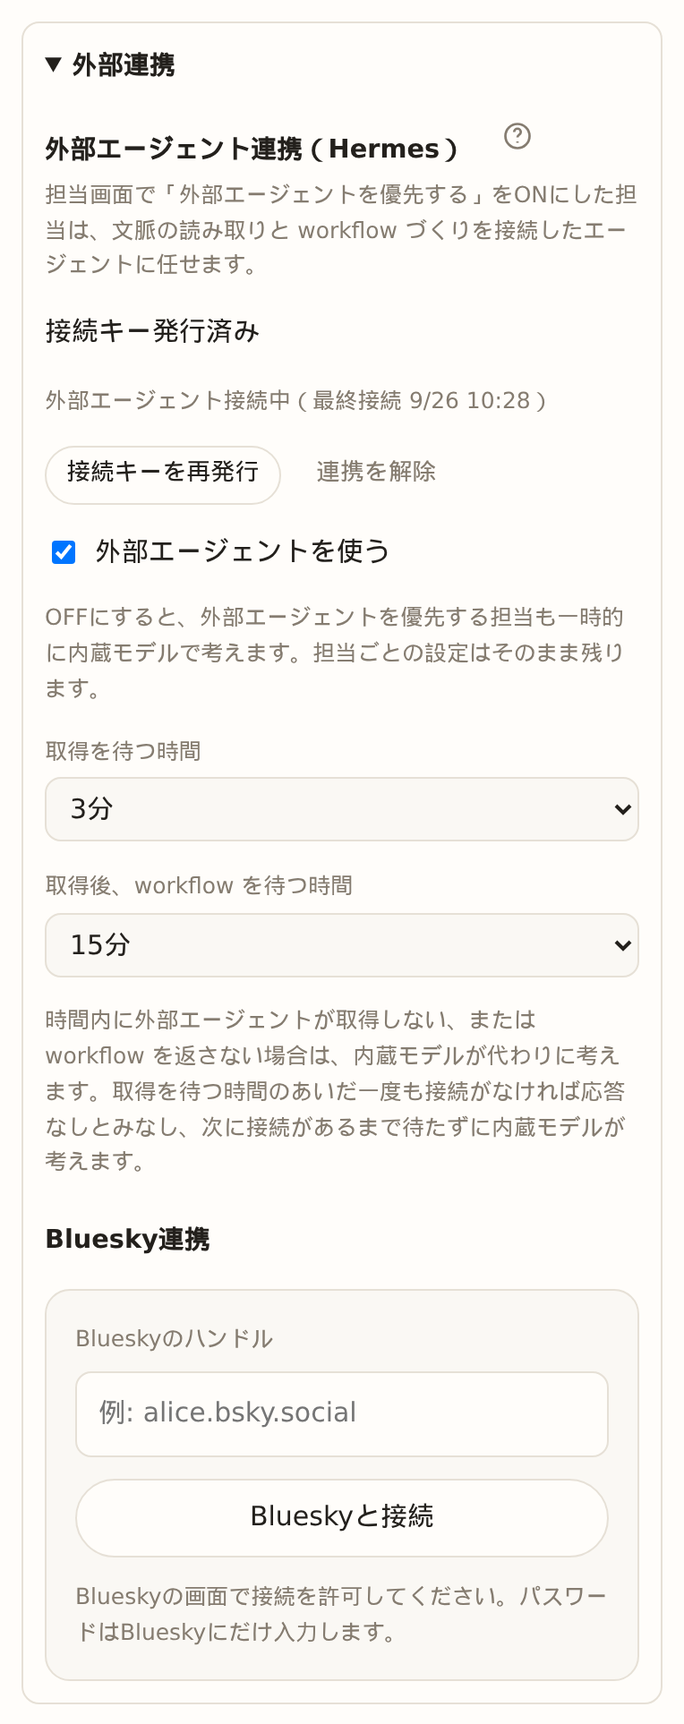
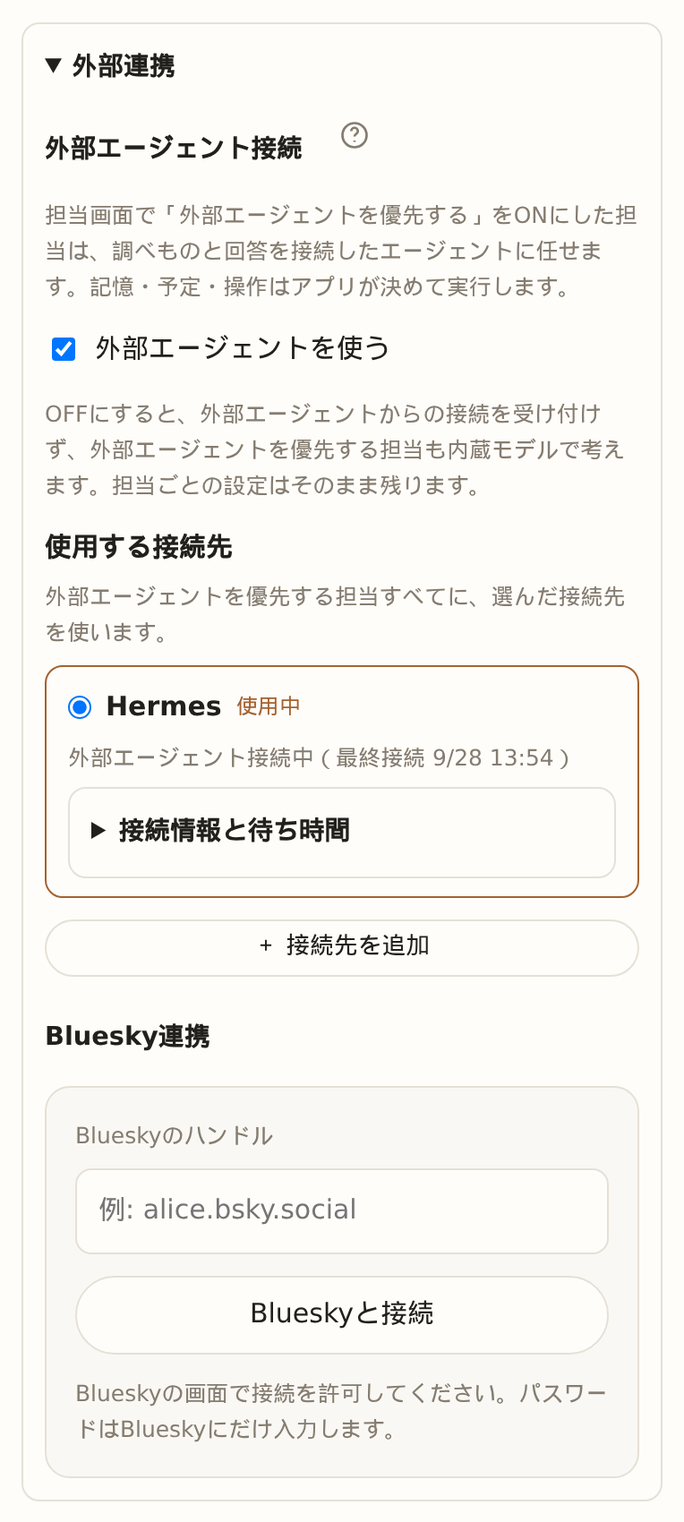
Show how to hand a persona to Obsidian through LLM Connect Hub
The manual's external agent section now covers LLM Connect Hub alongside
Hermes: connecting it, what it answers with, and that the vault file it read
is named as the source. A story shows shiori answering that way, captured in
both languages, and the integration settings captures are retaken for the
current connection list.

diff --git a/frontend/manual/index.html b/frontend/manual/index.html
@@ -79,7 +79,7 @@
             <li><a href="#ja-reply-fix">2. 返し方を直す</a></li>
             <li><a href="#ja-wakes">3. 担当が起きるタイミング</a></li>
             <li><a href="#ja-bluesky">4. Blueskyに公開する</a></li>
-            <li><a href="#ja-hermes">5. 担当の考える役をHermesにする</a></li>
+            <li><a href="#ja-hermes">5. 担当の考える役を外部エージェントに任せる</a></li>
             <li><a href="#ja-settings">6. 設定とデータ</a></li>
             <li><a href="#ja-tools">7. 担当が使う道具</a></li>
             <li><a href="#ja-more">8. もっと詳しく</a></li>
@@ -92,7 +92,7 @@
           <h1>kakeratta の使い方</h1>
           <p class="lede">日々のかけらを、ひとつのタイムラインへ放り込む。人や関心ごとに置いた、自分とは別の記憶を持つ AI（<strong>担当</strong>）が、言うことがあるときだけ反応し、必要なときに思い出させます。</p>
           <div class="tip">
-            <p>このページは毎日使う機能だけをまとめています。振り分けや返し方の調整、Bluesky・Hermes との連携、設定の詳細は <a href="/manual/?guide=advanced" data-lang-link>上級編</a> にあります。</p>
+            <p>このページは毎日使う機能だけをまとめています。振り分けや返し方の調整、Bluesky・外部エージェント（Hermes、Obsidian）との連携、設定の詳細は <a href="/manual/?guide=advanced" data-lang-link>上級編</a> にあります。</p>
           </div>
 
         <section id="ja-start">
@@ -319,7 +319,7 @@
 
         <div class="advanced-guide">
           <h1>kakeratta 上級編</h1>
-          <p class="lede">担当の振り分けや返し方の調整、担当が起きるタイミング、Bluesky・Hermes との連携、設定とデータ、担当が使う道具を説明します。毎日の使い方は <a href="/manual/" data-lang-link>基本の使い方</a> を見てください。</p>
+          <p class="lede">担当の振り分けや返し方の調整、担当が起きるタイミング、Bluesky・外部エージェント（Hermes、Obsidian）との連携、設定とデータ、担当が使う道具を説明します。毎日の使い方は <a href="/manual/" data-lang-link>基本の使い方</a> を見てください。</p>
 
         <section id="ja-routing">
           <h2>1. 振り分けを直す</h2>
@@ -408,7 +408,7 @@
             <li>最近の記録は、前回のチェックインから今までの分を読みます。休んだ日や見送った日があっても、その間の記録を取りこぼしません。</li>
             <li>チェックインでは現在地を使わないので、経路検索はできず、店舗検索は名前での検索だけになります。</li>
           </ul>
-          <p>「外部エージェントを優先する」をONにした担当では、チェックインで何を整え、何を聞くかを Hermes が考えます。時間内に Hermes が応じなければ、内蔵モデルが代わりに考えます。</p>
+          <p>「外部エージェントを優先する」をONにした担当では、チェックインで何を整え、何を聞くかを外部エージェントが考えます。時間内に外部エージェントが応じなければ、内蔵モデルが代わりに考えます。</p>
           <h3 id="ja-tool-schedule">担当が預けた予定（schedule）</h3>
           <p>たとえば plana は、記録から「朝の薬は7時半ごろ」と分かったものにだけ予定を置き、その少しあとに起きます。まだ記録がなければ「そういえば朝の薬」と一言添え、済んでいれば黙ります。時刻の前に知らせるリマインダーではなく、催促もしません。あなたから「毎朝8時に知らせて」と頼む機能でもありません。</p>
           <p><a href="/manual/#ja-people" data-lang-link>人物の担当</a>は、「来週土曜、佐藤さんと飲む」のような会う予定が書かれると、その日の朝に予定を置きます。起きたら前回の出来事や済んでいないこと（貸し借り、約束）を一言添えて知らせます。</p>
@@ -455,11 +455,11 @@
         </section>
 
         <section id="ja-hermes">
-          <p>「＋ 接続先を追加」で名前を付けて複数の接続先を登録し、「使用する接続先」の一覧でアプリ全体の接続先を1つ選べます。キーの再発行と削除は接続先ごとの行で行います。外部エージェントを優先する担当すべてに適用されます。追加した接続先が選択され、他のキーは保存されますがMCPへアクセスできるのは選択中のキーだけです。切り替え時の待機中ターンは内蔵モデルへ戻ります。Hermes以外もMCP Streamable HTTPで接続し、依頼の定期取得・調査・回答提出を実装すれば利用できます。キーは発行時のみ表示します。</p>
-          <h2>5. 担当の考える役をHermesにする</h2>
-          <p>担当ごとに「外部エージェントを優先する」を選べます。ONにした担当は、投稿やチェックインで起きたとき、文脈を読んで調べ、回答を書く部分を自分の Hermes に任せます。メモ・予定・道具の操作は、回答を受け取ったあと kakeratta が段階ごとに決め、回答の約束と食い違わないか確かめて担当として実行し、それから回答を公開します。Hermes をまだ入れていない場合は、先に <a href="https://github.com/takeshy/kakeratta/blob/main/docs/hermes_ja.md" rel="noopener">Hermes連携の手引き</a> を見てください。</p>
-          <figure><img src="/captures/ja/hermes-settings.png" alt="外部連携のHermes設定とマニュアルへのヘルプアイコン" loading="lazy" width="382" height="963" /></figure>
-          <h3>つなぐ</h3>
+          <p>「＋ 接続先を追加」で名前を付けて複数の接続先を登録し、「使用する接続先」の一覧でアプリ全体の接続先を1つ選べます。キーの再発行と削除は接続先ごとの行で行います。外部エージェントを優先する担当すべてに適用されます。追加した接続先が選択され、他のキーは保存されますがMCPへアクセスできるのは選択中のキーだけです。切り替え時の待機中ターンは内蔵モデルへ戻ります。Hermes のほか、Obsidian の LLM Connect Hub にも対応しています。それ以外のエージェントも、MCP Streamable HTTPで接続し、依頼の定期取得・調査・回答提出を実装すれば利用できます。キーは発行時のみ表示します。</p>
+          <h2>5. 担当の考える役を外部エージェントに任せる</h2>
+          <p>担当ごとに「外部エージェントを優先する」を選べます。ONにした担当は、投稿やチェックインで起きたとき、文脈を読んで調べ、回答を書く部分を、自分で動かしている外部エージェントに任せます。使えるのは Hermes Agent と、Obsidian のプラグイン <a href="https://github.com/takeshy/obsidian-llm-connect-hub" rel="noopener">LLM Connect Hub</a> です。メモ・予定・道具の操作は、回答を受け取ったあと kakeratta が段階ごとに決め、回答の約束と食い違わないか確かめて担当として実行し、それから回答を公開します。Hermes をまだ入れていない場合は、先に <a href="https://github.com/takeshy/kakeratta/blob/main/docs/hermes_ja.md" rel="noopener">Hermes連携の手引き</a> を見てください。</p>
+          <figure><img src="/captures/ja/hermes-settings.png" alt="外部連携の外部エージェント接続とマニュアルへのヘルプアイコン" loading="lazy" width="382" height="850" /></figure>
+          <h3>Hermes とつなぐ</h3>
           <ol>
             <li><strong>設定 → 上級オプション → 外部連携 → 外部エージェント接続</strong> で <strong>追加してキーを発行</strong> を押し、表示された設定をコピーします。キーを確認できるのは発行直後だけです。</li>
             <li>Hermes を動かす端末の <code>~/.hermes/config.yaml</code> に追加し、Hermes を再起動します。すでに <code>mcp_servers</code> があれば、その中に <code>kakeratta</code> を足します。</li>
@@ -470,20 +470,32 @@
     url: "画面に表示された接続URL"
     headers:
       Authorization: "Bearer 画面に表示された接続キー"</code></pre>
+          <h3>Obsidian（LLM Connect Hub）とつなぐ</h3>
+          <p>LLM Connect Hub を使うと、担当の回答を Obsidian の <a href="https://github.com/takeshy/obsidian-llm-hub" rel="noopener">LLM Hub</a> が答えます。モデルは LLM Hub で選んだものを使い、Vault のノート・RAG・スキルを調べて回答します。回答の出典には、参照した Vault のファイルが <code>[[ファイル名]]</code> で示されます。</p>
+          <figure><img src="/captures/ja/llm-connect-hub.png" alt="Obsidian の LLM Connect Hub が shiori として答えた返事。外部エージェントの印と、Vault のファイルを示す出典" loading="lazy" width="382" height="991" /></figure>
+          <ol>
+            <li>Obsidian のコミュニティプラグインから <strong>LLM Hub</strong> と <strong>LLM Connect Hub</strong> を入れて有効にします（デスクトップ版のみ）。</li>
+            <li>kakeratta の <strong>設定 → 上級オプション → 外部連携 → 外部エージェント接続</strong> で接続名（例: Obsidian）を付けて <strong>追加してキーを発行</strong> を押します。</li>
+            <li>LLM Connect Hub の設定の <strong>Kakeratta</strong> に、<strong>接続情報と待ち時間</strong> に表示された MCPエンドポイントを入れます。<strong>Add header</strong> で名前 <code>Authorization</code>、値 <code>Bearer 接続キー</code> を追加します。</li>
+            <li>回答に使うモデル、読んでよい Vault のフォルダ、RAG、スキルを決めます。担当ごとに変えることもできます。</li>
+            <li><strong>Check periodically</strong> をONにして <strong>Enabled</strong> をONにし、<strong>Save and reconnect</strong> を押します。</li>
+          </ol>
+          <p>LLM Connect Hub は Obsidian を開いている間、1分ごとに依頼を確認します。依頼がないときにモデルのトークンは使いません。Obsidian を閉じているあいだに届いた依頼は、待ち時間を過ぎると内蔵モデルが答えます。詳しい設定は <a href="https://github.com/takeshy/obsidian-llm-connect-hub/blob/main/README_ja.md" rel="noopener">LLM Connect Hub の説明</a> を見てください。</p>
           <h3>担当を任せる</h3>
           <figure><img src="/captures/ja/persona-planner.png" alt="担当カードで外部エージェントを優先するをONにしたところ" loading="lazy" width="382" height="389" /></figure>
           <ol>
             <li><strong>担当</strong> 画面で、任せたい担当の <strong>外部エージェントを優先する</strong> をONにします。このチェックは接続キーを発行したあとにだけ表示されます。</li>
-            <li>いつもどおり投稿します。その担当に届いた投稿は Hermes が考え、返事は担当の名前で「外部エージェント」の印付きで届きます。</li>
+            <li>いつもどおり投稿します。その担当に届いた投稿は外部エージェントが考え、返事は担当の名前で「外部エージェント」の印付きで届きます。</li>
           </ol>
-          <p>Hermes が3分以内に取りに来ない、または15分以内に回答を返さないときは、内蔵モデルが代わりに答えます。取得を待つ時間のあいだ Hermes から一度も接続がなければ応答なしとみなし、次に接続があるまで待たずに内蔵モデルが答えます。時間は <strong>外部連携</strong> の接続先ごとの <strong>接続情報と待ち時間</strong> で、エージェントごとに変えられます。同じ画面の <strong>外部エージェントを使う</strong> をOFFにすると、外部エージェントからの接続を受け付けず、担当ごとの設定を残したまま内蔵モデルで考えます。試し直しは常に内蔵モデルで行います。</p>
-          <h3>Hermes が読めるもの</h3>
-          <p>Hermes は、あなたの投稿と <strong>すべての担当のメモ</strong> を読めます。自分で投稿したりメモを書いたりはできず、Hermes が渡すのは回答だけです。書き込みはすべて kakeratta が決めて確認したものだけが実行されます。モデル設定や他の利用者のデータには触れません。接続先を<strong>削除</strong>すると接続キーが無効になります。</p>
+          <p>外部エージェントが3分以内に取りに来ない、または15分以内に回答を返さないときは、内蔵モデルが代わりに答えます。取得を待つ時間のあいだ外部エージェントから一度も接続がなければ応答なしとみなし、次に接続があるまで待たずに内蔵モデルが答えます。時間は <strong>外部連携</strong> の接続先ごとの <strong>接続情報と待ち時間</strong> で、エージェントごとに変えられます。同じ画面の <strong>外部エージェントを使う</strong> をOFFにすると、外部エージェントからの接続を受け付けず、担当ごとの設定を残したまま内蔵モデルで考えます。試し直しは常に内蔵モデルで行います。</p>
+          <h3>外部エージェントが読めるもの</h3>
+          <p>外部エージェントは、あなたの投稿と <strong>すべての担当のメモ</strong> を読めます。自分で投稿したりメモを書いたりはできず、外部エージェントが渡すのは回答だけです。書き込みはすべて kakeratta が決めて確認したものだけが実行されます。モデル設定や他の利用者のデータには触れません。接続先を<strong>削除</strong>すると接続キーが無効になります。</p>
           <h3>つながらないとき</h3>
           <ul>
             <li>設定を変えたあと Hermes を再起動したか確認してください。</li>
             <li>Hermes から接続URLに届くか確認してください。</li>
             <li>キーを再発行したら、config.yaml も置き換えてください。</li>
+            <li>LLM Connect Hub では、設定画面の接続状態（例: <code>Kakeratta: connected; 1 ask failed</code>）を見てください。回答が失敗した依頼は内蔵モデルが答えます。</li>
           </ul>
         </section>
 
@@ -504,7 +516,7 @@
                 <tr><td>上級オプション → モデル</td><td>OpenRouter を使う</td></tr>
                 <tr><td>上級オプション → 入力</td><td>入力をマークダウンとして扱う</td></tr>
                 <tr><td>上級オプション → 音声</td><td>音声入力（送信の合図、無音で停止など）、読み上げの声と速さ</td></tr>
-                <tr><td>上級オプション → 外部連携</td><td><a href="#ja-hermes">Hermes</a>、<a href="#ja-bluesky">Bluesky</a></td></tr>
+                <tr><td>上級オプション → 外部連携</td><td><a href="#ja-hermes">外部エージェント</a>、<a href="#ja-bluesky">Bluesky</a></td></tr>
                 <tr><td>上級オプション → バックアップ</td><td>zip に書き出す</td></tr>
                 <tr><td>上級オプション → 利用停止</td><td>すべて削除して退会する</td></tr>
               </tbody>
@@ -512,7 +524,7 @@
           </div>
           <h3>バックアップ</h3>
           <p><strong>zipに書き出す</strong> で、投稿、担当とメモ、担当の並び、画像をひとつの zip にまとめます。準備ができるとダウンロードが始まり、<strong>ダウンロード</strong> のリンクも表示されます。リンクは1時間有効です。個人的な内容を含むので、他人に渡さないでください。</p>
-          <p>API キーや Bluesky・Hermes の接続は入りません。</p>
+          <p>API キーや Bluesky・外部エージェントの接続は入りません。</p>
           <h3>利用停止（退会）</h3>
           <p><strong>すべて削除して利用を停止する</strong> を押し、確認のため「削除」と入力すると、このアカウントの投稿・担当とメモ・画像・設定・接続・バックアップ、ログインのアカウント自体が消えます。元に戻せないので、先にバックアップを取ってください。</p>
           <h3>AI のモデル</h3>
@@ -613,7 +625,7 @@
             <li><a href="#en-reply-fix">2. Fix how a persona replies</a></li>
             <li><a href="#en-wakes">3. When personas wake</a></li>
             <li><a href="#en-bluesky">4. Share to Bluesky</a></li>
-            <li><a href="#en-hermes">5. Let Hermes plan for a persona</a></li>
+            <li><a href="#en-hermes">5. Hand a persona to an external agent</a></li>
             <li><a href="#en-settings">6. Settings and data</a></li>
             <li><a href="#en-tools">7. Tools personas use</a></li>
             <li><a href="#en-more">8. Read more</a></li>
@@ -626,7 +638,7 @@
           <h1>Using kakeratta</h1>
           <p class="lede">Toss fragments of your day into one timeline. AIs you keep for the people and interests in your life, each with a memory separate from yours, called <strong>personas</strong>, react only when they have something to say and bring things back when they matter.</p>
           <div class="tip">
-            <p>This page covers what you use every day. Fixing routing and replies, Bluesky and Hermes, and settings in detail are in the <a href="/manual/?guide=advanced" data-lang-link>advanced guide</a>.</p>
+            <p>This page covers what you use every day. Fixing routing and replies, Bluesky and external agents (Hermes, Obsidian), and settings in detail are in the <a href="/manual/?guide=advanced" data-lang-link>advanced guide</a>.</p>
           </div>
 
         <section id="en-start">
@@ -853,7 +865,7 @@
 
         <div class="advanced-guide">
           <h1>kakeratta advanced guide</h1>
-          <p class="lede">Fixing routing and replies, when personas wake, Bluesky and Hermes, settings and data, and the tools personas use. For everyday use, see the <a href="/manual/" data-lang-link>basics</a>.</p>
+          <p class="lede">Fixing routing and replies, when personas wake, Bluesky and external agents (Hermes, Obsidian), settings and data, and the tools personas use. For everyday use, see the <a href="/manual/" data-lang-link>basics</a>.</p>
 
         <section id="en-routing">
           <h2>1. Fix who gets a post</h2>
@@ -942,7 +954,7 @@
             <li>Recent records are read from the previous check-in onward, so a skipped or missed day leaves nothing unread.</li>
             <li>Check-ins do not use your location, so route search is unavailable and place search works by name only.</li>
           </ul>
-          <p>For a persona that prefers the external agent, Hermes decides what to tidy and what to ask at check-in. If Hermes does not respond in time, the built-in model plans instead.</p>
+          <p>For a persona that prefers the external agent, the external agent decides what to tidy and what to ask at check-in. If it does not respond in time, the built-in model plans instead.</p>
           <h3 id="en-tool-schedule">A persona's own schedule (schedule)</h3>
           <p>plana, for example, sets one only for something its records place at a usual time - “morning medicine around 7:30” - and wakes shortly after. If nothing has been recorded yet it adds “the morning medicine, by the way”; if it has, it stays quiet. This is not an advance reminder and it does not nag. It is also not a way for you to ask “tell me every morning at 8.”</p>
           <p>A <a href="/manual/#en-people" data-lang-link>person's persona</a> sets one for the morning of a meeting you mention, such as “drinks with Sato next Saturday.” On waking it brings up what happened last time and anything still open, like a loan or a promise.</p>
@@ -989,11 +1001,11 @@
         </section>
 
         <section id="en-hermes">
-          <p>Add named connections with + Add connection, then choose one in the Active connection list for the whole app. Replace or delete a key on each connection's row. All personas that prefer an external agent use it. Adding a connection selects it; other keys are kept, but only the selected key can access MCP. Switching returns pending turns to the built-in model. Other agents can use MCP Streamable HTTP if they implement polling, research, and answer submission. Keys are shown only when issued.</p>
-          <h2>5. Let Hermes plan for a persona</h2>
-          <p>Each persona can prefer the external agent. A persona with <strong>Prefer the external agent</strong> on hands the research and the answer of its turn to your own Hermes, whether it woke for a post or a check-in. After receiving the answer, kakeratta decides the notes, schedules and tool actions one phase at a time, checks them against what the answer promises, runs them as the persona, and then publishes the answer. If you have not installed Hermes yet, start with the <a href="https://github.com/takeshy/kakeratta/blob/main/docs/hermes.md" rel="noopener">Hermes integration guide</a>.</p>
-          <figure><img src="/captures/en/hermes-settings.png" alt="Hermes integration settings and the manual help icon" loading="lazy" width="382" height="983" /></figure>
-          <h3>Connect</h3>
+          <p>Add named connections with + Add connection, then choose one in the Active connection list for the whole app. Replace or delete a key on each connection's row. All personas that prefer an external agent use it. Adding a connection selects it; other keys are kept, but only the selected key can access MCP. Switching returns pending turns to the built-in model. Hermes and Obsidian's LLM Connect Hub are supported; other agents can use MCP Streamable HTTP if they implement polling, research, and answer submission. Keys are shown only when issued.</p>
+          <h2>5. Hand a persona to an external agent</h2>
+          <p>Each persona can prefer the external agent. A persona with <strong>Prefer the external agent</strong> on hands the research and the answer of its turn to an external agent you run yourself, whether it woke for a post or a check-in: Hermes Agent, or the Obsidian plugin <a href="https://github.com/takeshy/obsidian-llm-connect-hub" rel="noopener">LLM Connect Hub</a>. After receiving the answer, kakeratta decides the notes, schedules and tool actions one phase at a time, checks them against what the answer promises, runs them as the persona, and then publishes the answer. If you have not installed Hermes yet, start with the <a href="https://github.com/takeshy/kakeratta/blob/main/docs/hermes.md" rel="noopener">Hermes integration guide</a>.</p>
+          <figure><img src="/captures/en/hermes-settings.png" alt="External agent connections under Integrations, with the manual help icon" loading="lazy" width="382" height="889" /></figure>
+          <h3>Connect Hermes</h3>
           <ol>
             <li>Under <strong>Settings → Advanced options → Integrations → External agent connections</strong>, press <strong>Add and create key</strong> and copy the configuration. The key is shown only then.</li>
             <li>Add it to <code>~/.hermes/config.yaml</code> on the machine running Hermes and restart Hermes. If <code>mcp_servers</code> already exists, add <code>kakeratta</code> inside it.</li>
@@ -1004,20 +1016,32 @@
     url: "Connection URL shown in Settings"
     headers:
       Authorization: "Bearer CONNECTION_KEY"</code></pre>
+          <h3>Connect Obsidian (LLM Connect Hub)</h3>
+          <p>With LLM Connect Hub, a persona's answer comes from <a href="https://github.com/takeshy/obsidian-llm-hub" rel="noopener">LLM Hub</a> in your Obsidian. It uses the model you choose in LLM Hub and researches your Vault notes, RAG and skills; the vault files it read are cited as <code>[[file name]]</code>.</p>
+          <figure><img src="/captures/en/llm-connect-hub.png" alt="shiori answering through Obsidian's LLM Connect Hub, marked External agent, citing a file in the vault as its source" loading="lazy" width="382" height="1068" /></figure>
+          <ol>
+            <li>Install and enable <strong>LLM Hub</strong> and <strong>LLM Connect Hub</strong> from Obsidian's community plugins (desktop only).</li>
+            <li>In kakeratta, under <strong>Settings → Advanced options → Integrations → External agent connections</strong>, name the connection (for example, Obsidian) and press <strong>Add and create key</strong>.</li>
+            <li>In LLM Connect Hub's <strong>Kakeratta</strong> settings, enter the MCP endpoint shown under <strong>Connection details and waits</strong>. Use <strong>Add header</strong> to add the name <code>Authorization</code> with the value <code>Bearer CONNECTION_KEY</code>.</li>
+            <li>Choose the answer model, the Vault folders it may read, the RAG index and the skills. Each persona can override them.</li>
+            <li>Turn on <strong>Check periodically</strong> and <strong>Enabled</strong>, then press <strong>Save and reconnect</strong>.</li>
+          </ol>
+          <p>LLM Connect Hub checks for asks once a minute while Obsidian is open, and uses no model tokens when there are none. An ask that arrives while Obsidian is closed is answered by the built-in model once its wait runs out. For the full settings, see the <a href="https://github.com/takeshy/obsidian-llm-connect-hub#readme" rel="noopener">LLM Connect Hub README</a>.</p>
           <h3>Hand a persona over</h3>
           <figure><img src="/captures/en/persona-planner.png" alt="A persona card preferring the external agent" loading="lazy" width="382" height="433" /></figure>
           <ol>
             <li>In <strong>Personas</strong>, turn on <strong>Prefer the external agent</strong> for the persona. The checkbox appears only after a connection key has been issued.</li>
-            <li>Post as usual. Hermes plans what that persona does with it; the reply arrives under the persona's name, marked <strong>External agent</strong>.</li>
+            <li>Post as usual. The external agent plans what that persona does with it; the reply arrives under the persona's name, marked <strong>External agent</strong>.</li>
           </ol>
-          <p>If Hermes does not pick it up within 3 minutes, or does not return an answer within 15 minutes, the built-in model answers instead. If Hermes has not connected at all for the claim wait, it is taken to be away and the built-in model answers without waiting until it connects again. Change the waits per agent under each connection's <strong>Connection details and waits</strong> in <strong>Integrations</strong>; turning off <strong>Use the external agent</strong> there refuses its connections and plans with the built-in model while keeping each persona's choice. <strong>Try again</strong> always uses the built-in model.</p>
-          <h3>What Hermes can read</h3>
-          <p>Hermes can read your posts and <strong>the notes of every persona</strong>. It cannot post or write notes itself: it hands in only the answer, and every write is decided and checked by kakeratta. It cannot reach model settings or other users. Deleting the connection invalidates the key.</p>
+          <p>If the external agent does not pick it up within 3 minutes, or does not return an answer within 15 minutes, the built-in model answers instead. If it has not connected at all for the claim wait, it is taken to be away and the built-in model answers without waiting until it connects again. Change the waits per agent under each connection's <strong>Connection details and waits</strong> in <strong>Integrations</strong>; turning off <strong>Use the external agent</strong> there refuses its connections and plans with the built-in model while keeping each persona's choice. <strong>Try again</strong> always uses the built-in model.</p>
+          <h3>What an external agent can read</h3>
+          <p>An external agent can read your posts and <strong>the notes of every persona</strong>. It cannot post or write notes itself: it hands in only the answer, and every write is decided and checked by kakeratta. It cannot reach model settings or other users. Deleting the connection invalidates the key.</p>
           <h3>If it cannot connect</h3>
           <ul>
             <li>Restart Hermes after changing its configuration.</li>
             <li>Check that Hermes can reach the connection URL.</li>
             <li>If you replaced the key, replace it in config.yaml too.</li>
+            <li>In LLM Connect Hub, look at the connection status in its settings (for example, <code>Kakeratta: connected; 1 ask failed</code>). An ask it failed to answer is answered by the built-in model.</li>
           </ul>
         </section>
 
@@ -1038,7 +1062,7 @@
                 <tr><td>Advanced options → Models</td><td>Use OpenRouter</td></tr>
                 <tr><td>Advanced options → Input</td><td>Treat what I write as Markdown</td></tr>
                 <tr><td>Advanced options → Voice</td><td>Voice input (send phrase, silence stop, …), read-aloud voice and speed</td></tr>
-                <tr><td>Advanced options → Integrations</td><td><a href="#en-hermes">Hermes</a>, <a href="#en-bluesky">Bluesky</a></td></tr>
+                <tr><td>Advanced options → Integrations</td><td><a href="#en-hermes">External agents</a>, <a href="#en-bluesky">Bluesky</a></td></tr>
                 <tr><td>Advanced options → Backup</td><td>Export as zip</td></tr>
                 <tr><td>Advanced options → Close account</td><td>Delete everything and leave</td></tr>
               </tbody>
@@ -1046,7 +1070,7 @@
           </div>
           <h3>Backup</h3>
           <p><strong>Export as zip</strong> puts your posts, personas and their notes, persona order, and images into one zip. The download starts when it is ready, and a <strong>Download</strong> link also appears. The link is valid for an hour. The zip holds personal content, so keep it to yourself.</p>
-          <p>API keys and the Bluesky and Hermes connections are not included.</p>
+          <p>API keys and the Bluesky and external agent connections are not included.</p>
           <h3>Close account</h3>
           <p>Press <strong>Delete everything and close the account</strong> and type “delete” to confirm. This removes the account's posts, personas and notes, images, settings, connections, backups, and the login account itself. It cannot be undone, so export a backup first.</p>
           <h3>AI models</h3>

diff --git a/frontend/stories/fixtures.js b/frontend/stories/fixtures.js
@@ -65,6 +65,8 @@ const WORDS = {
     newTone: "短く一言。おすすめは頼まれたときだけ。",
     newInstructions: "食べた店と味の感想を覚える。新しい感想が来たら、前に食べた店との違いを一言で返す。店は頼まれたときだけ勧める。",
     trialReply: "前の担々麺より、ごまが強くて辛さが後ろに下がった感じですね。",
+    agentAsk: "LLMの本であるIntroduction to Agentsの要約を教えて",
+    agentSummary: "『Introduction to Agents and Agent architectures』（2025年11月）の要約です。\nこの本は、AIを「質問に答えたり文章を生成したりするモデル」から、**目標に向かって計画し、ツールを使い、結果を観察しながら仕事を進めるエージェント**へと捉え直します。\n\n- **基本ループ**：目標を受け取る → 状況を調べる → 計画する → ツールで実行する → 結果を観察・評価する → 必要なら計画を修正する\n- **基本構成**：推論を担う **Model**、外界に働きかける **Tools**、処理の流れを制御する **Orchestration layer**、実行環境などの **Runtime services**\n- **重要な考え方**：エージェントの性能は、モデルそのものだけでなく、毎回どの情報を文脈として選び、組み合わせるかという **context engineering** に大きく左右される\n- **実運用上の課題**：評価、メモリ、権限管理、プロンプトインジェクション対策、人間による監督が不可欠\n\n出典：[[resource/Introduction to Agents.pdf]]",
   },
   en: {
     noodles: "That dan dan noodle place from the other day - too much sesame, I think",
@@ -92,6 +94,8 @@ const WORDS = {
     newTone: "One short line. Recommendations only when asked.",
     newInstructions: "Remember the places eaten at and what they tasted like. When a new impression comes in, say in one line how it differs from a place before. Recommend only when asked.",
     trialReply: "Heavier on sesame than the last dan dan noodles, with the heat sitting further back.",
+    agentAsk: "Summarise the LLM book Introduction to Agents for me",
+    agentSummary: "A summary of \"Introduction to Agents and Agent architectures\" (November 2025).\nThe book recasts AI from \"a model that answers questions and writes text\" into **an agent that plans toward a goal, uses tools, and works while watching the results**.\n\n- **The core loop**: take a goal → look at the situation → plan → act with tools → observe and judge the result → revise the plan if needed\n- **The parts**: a **Model** that reasons, **Tools** that act on the world, an **Orchestration layer** that runs the flow, and **Runtime services** such as the execution environment\n- **The key idea**: an agent's quality depends not only on the model but on **context engineering** - which information is chosen and combined as context each time\n- **In production**: evaluation, memory, permissions, defence against prompt injection, and human oversight are essential\n\nSource: [[resource/Introduction to Agents.pdf]]",
   },
 };
 
@@ -253,7 +257,13 @@ export function timeline() {
   const unreadable = [
     post("p7", minutes(2), { media: { blobId: "b3", mime: "image/png", readAt: minutes(1), error: w.noVision } }),
   ];
-  return { quiet, answered, hero, many, reading, unreadable };
+  // shiori handed to LLM Connect Hub: the answer comes from Obsidian, and the
+  // file it read in the vault is named as the source.
+  const vault = [
+    post("p8", minutes(7), { text: w.agentAsk }),
+    said("a1", "p8", "book", minutes(6), w.agentSummary, { model: "agent", notes: ["books/introduction-to-agents.md"] }),
+  ];
+  return { quiet, answered, hero, many, reading, unreadable, vault };
 }
 
 // ---- what the panels read ---------------------------------------------------

diff --git a/frontend/stories/Timeline.stories.js b/frontend/stories/Timeline.stories.js
@@ -24,6 +24,16 @@ export const Opened = {
     return panel(view.element);
   },
 };
+// A persona handed to Obsidian's LLM Connect Hub, answering from a file in the
+// vault and saying which.
+export const ExternalAgentVault = {
+  name: "外部エージェント（Obsidian）が答えた",
+  render: () => {
+    const view = feed(timeline().vault, personas);
+    view.element.querySelector(".thread-toggle")?.click();
+    return panel(view.element);
+  },
+};
 export const Settled ={ name: "溜まってきた", render: () => show(timeline().many) };
 // The router's call about the noodle post: tabe was called, and the reasons
 // the other three were not - each with a way to say the router was wrong.

diff --git a/README.md b/README.md
@@ -578,6 +578,17 @@ Detailed credential scope, the context an ask carries, waits, and fall-through
 are in [Hermes Agent setup](docs/hermes.md)
 ([日本語](docs/hermes_ja.md)).
 
+The same MCP connection also serves
+[LLM Connect Hub](https://github.com/takeshy/obsidian-llm-connect-hub), an
+Obsidian plugin. A persona handed to it is answered by
+[LLM Hub](https://github.com/takeshy/obsidian-llm-hub) in your Obsidian, with
+the model you choose there and your Vault notes, RAG and skills. Enter the MCP
+endpoint and `Authorization: Bearer <key>` in its **Kakeratta** settings; it
+checks for asks once a minute while Obsidian is open. See the
+[manual](https://kakeratta.net/manual/?lang=en#en-hermes).
+
+![shiori answering through LLM Connect Hub, citing a file in the vault](docs/captures/en/llm-connect-hub.png)
+
 ### Running the server yourself
 
 The browser app and Go API can be run locally or deployed separately.
@@ -597,6 +608,7 @@ check-ins, schedules, and operator-provided tools are documented in
 | [Usage and configuration](docs/usage.md)                                                                 | Android and iOS sharing, location, speech, model settings, and stored data                                        |
 | [What was hard about the AI](docs/ai-lessons.md)                                                         | What went wrong with Nemotron personas in live runs and production, and how each was fixed                        |
 | [Hermes Agent](docs/hermes.md) ([日本語](docs/hermes_ja.md))                                                | kakeratta MCP connection, credentials, claiming asks, submitting answers, and fall-through                      |
+| [LLM Connect Hub](https://github.com/takeshy/obsidian-llm-connect-hub)                                   | Obsidian plugin that answers kakeratta personas with LLM Hub models, Vault notes, RAG, and skills                 |
 | [NVIDIA NemoClaw with Hermes](https://docs.nvidia.com/nemoclaw/user-guide/hermes/get-started/quickstart) | Official setup for running Hermes in a NemoClaw/OpenShell sandbox                                                 |
 | [Google Cloud deployment](infra/README.md)                                                               | Terraform deployment: Firebase Hosting for the page and Cloud Run for the API                                     |
 

diff --git a/docs/usage_ja.md b/docs/usage_ja.md
@@ -258,7 +258,7 @@ KakerattaはNebius Token Factoryを通じてNVIDIA Nemotronモデルを使用し
 お礼や普通の追加質問、別の話題は Super のままです。
 調べるための `read` は通常のターンで最大10回、Ultra のターンで最大20回使えます。
 
-外部エージェントの接続キーを発行すると、担当ごとに「外部エージェントを優先する」をONにして、調べものと回答を外部エージェント（Hermes など）に任せられます（接続するまで、このチェックは表示されません）。その担当は、文脈を読んで調べ、回答を書く部分だけを
+外部エージェントの接続キーを発行すると、担当ごとに「外部エージェントを優先する」をONにして、調べものと回答を外部エージェント（Hermes や Obsidian の [LLM Connect Hub](https://github.com/takeshy/obsidian-llm-connect-hub) など）に任せられます（接続するまで、このチェックは表示されません）。その担当は、文脈を読んで調べ、回答を書く部分だけを
 MCP でつないだ外部エージェントに任せます。予定・操作・メモは担当のモデルで kakeratta が決めて回答とあわせた workflow を組み立て、予定か操作があれば上の表のとおり確認してから実行し、回答を公開します。
 3分以内に取得されない、または取得後15分以内に回答が受理されないと、内蔵モデル（Super）が代わりに答えます。
 待ち時間は上級オプションの「外部連携」で変えられ、「外部エージェントを使う」をOFFにすると一時的に全員が内蔵モデルで考えます。詳しくは [Hermes Agent の設定](hermes_ja.md) を見てください。

diff --git a/docs/usage.md b/docs/usage.md
@@ -370,6 +370,7 @@ The persona can use `read` up to 10 times in an ordinary turn and 20 times in an
 
 Once an external agent's connection key has been issued, each persona can turn on
 **Prefer the external agent** to hand its research and answer to an agent such as Hermes
+or Obsidian's [LLM Connect Hub](https://github.com/takeshy/obsidian-llm-connect-hub)
 (the checkbox stays hidden until then).
 Such a persona hands only the part that reads the context, looks things up and
 writes the answer to the agent connected over MCP. kakeratta then decides the
@@ -378,7 +379,8 @@ with the answer into a workflow, reviews it as in the table above when it holds 
 schedule or an action, runs it, and publishes the answer. If the
 agent does not claim the turn within 3 minutes, or no answer is accepted within
 15 minutes of the claim, the built-in model (Super) answers instead. The waits are under Advanced options →
-Integrations, where **Use the external agent** can pause it for a while. See [Hermes Agent setup](hermes.md).
+Integrations, where **Use the external agent** can pause it for a while. See [Hermes Agent setup](hermes.md), or the
+[manual](https://kakeratta.net/manual/?lang=en#en-hermes) for LLM Connect Hub.
 
 ![Personas: preferring the external agent for a persona](captures/en/persona-planner.png)
 
